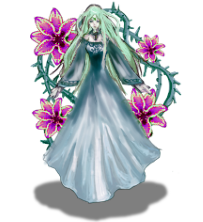
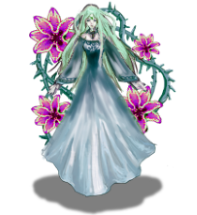
Resized the game frame in width & height
Shrinked alania image
Set loading bar to 100 when complete

diff --git a/src/bi/team/Game.java b/src/bi/team/Game.java
@@ -153,10 +153,10 @@ public class Game extends JFrame implements ActionListener {
     /* Build frame */
     this.setResizable(false);
     this.setDefaultCloseOperation(JFrame.EXIT_ON_CLOSE);
-    this.setBounds(100, 100, 1070, 700);
+    this.setBounds(100, 100, 1160, 680);
     this.setTitle("[ver. alpha] BeyondInfinity");
     getContentPane().setLayout(null);
-    this.setBounds(0, 0, 1070, 654);
+    this.setBounds(0, 0, 1140, 680);
     this.setBackground(new Color(236, 240, 241));
     this.setLocationRelativeTo(null);
 
@@ -180,7 +180,7 @@ public class Game extends JFrame implements ActionListener {
 
     /* Create a panel that dims the frame, this is used when toggling map */
     panel_frameOpacity = new JPanel();
-    panel_frameOpacity.setBounds(0, 0, 1064, 19);
+    panel_frameOpacity.setBounds(0, 0, 1134, 19);
     panel_frameOpacity.setBackground(new Color(0, 0, 0, 64));
     panel_frameOpacity.setOpaque(true);
     panel_frameOpacity.setVisible(false);
@@ -188,7 +188,7 @@ public class Game extends JFrame implements ActionListener {
 
     /* Create left panel for displaying hero info */
     panel_player = new JPanel();
-    panel_player.setBounds(20, 80, 260, 65);
+    panel_player.setBounds(20, 80, 285, 65);
     panel_player.setBackground(new Color(204, 255, 153));
     panel_player.setBorder(new LineBorder(Color.BLACK, 1));
     panel_player.setLayout(null);
@@ -196,13 +196,13 @@ public class Game extends JFrame implements ActionListener {
 
     /* Create top panel to display vitality (health) bars */
     panel_top = new JPanel();
-    panel_top.setBounds(10, 21, 1044, 48);
+    panel_top.setBounds(10, 21, 1114, 48);
     panel_top.setLayout(null);
     getContentPane().add(panel_top);
 
     /* Create the button that toggles map */
     btnShowMap = new JButton();
-    btnShowMap.setBounds(1006, 0, 38, 38);
+    btnShowMap.setBounds(1076, 0, 38, 38);
     btnShowMap.setFocusable(false);
     btnShowMap.setIcon(new ImageIcon(getClass().getResource("/images/map.png")));
     btnShowMap.setCursor(Cursor.getPredefinedCursor(Cursor.HAND_CURSOR));
@@ -226,7 +226,7 @@ public class Game extends JFrame implements ActionListener {
     bar_XPBar.setValue(20);
     bar_XPBar.setBorder(new LineBorder(new Color(0, 0, 0)));
     bar_XPBar.setStringPainted(true);
-    bar_XPBar.setBounds(322, 12, 400, 14);
+    bar_XPBar.setBounds(347, 12, 420, 14);
     panel_top.add(bar_XPBar);
 
     /* Create icon for current level */
@@ -235,7 +235,7 @@ public class Game extends JFrame implements ActionListener {
     lblLevel_current.setHorizontalTextPosition(JLabel.CENTER);
     lblLevel_current.setFont(new Font("Comic Sans MS", Font.PLAIN, 18));
     lblLevel_current.setIcon(new ImageIcon(getClass().getResource("/images/xpcircle.png")));
-    lblLevel_current.setBounds(274, 0, 38, 38);
+    lblLevel_current.setBounds(299, 0, 38, 38);
     panel_top.add(lblLevel_current);
 
     /* Create icon for next level */
@@ -244,19 +244,19 @@ public class Game extends JFrame implements ActionListener {
     lblLevel_next.setHorizontalTextPosition(JLabel.CENTER);
     lblLevel_next.setFont(new Font("Comic Sans MS", Font.PLAIN, 18));
     lblLevel_next.setIcon(new ImageIcon(getClass().getResource("/images/xpcircle.png")));
-    lblLevel_next.setBounds(732, 0, 38, 38);
+    lblLevel_next.setBounds(777, 0, 38, 38);
     panel_top.add(lblLevel_next);
 
     /* Create bottom panel to display buttons for upgrades */
     panel_stats = new JPanel();
-    panel_stats.setBounds(10, 414, 1044, 87);
+    panel_stats.setBounds(10, 436, 1114, 87);
     panel_stats.setLayout(new GridLayout(0, 5, 0, 0));
     getContentPane().add(panel_stats);
 
     /* Create right panel for displaying enemy info */
     panel_enemy = new JPanel();
     panel_enemy.setBackground(new Color(204, 255, 153));
-    panel_enemy.setBounds(784, 80, 260, 65);
+    panel_enemy.setBounds(829, 80, 285, 87);
     panel_enemy.setBorder(new LineBorder(Color.BLACK, 1));
     panel_enemy.setLayout(null);
     panel_enemy.setVisible(false);
@@ -265,26 +265,26 @@ public class Game extends JFrame implements ActionListener {
     /* Create actions panel for displaying attack buttons */
     panel_actions = new JPanel();
     panel_actions.setBorder(new EmptyBorder(10, 10, 10, 10));
-    panel_actions.setBounds(10, 542, 1044, 72);
+    panel_actions.setBounds(10, 568, 1114, 72);
     panel_actions.setBackground(new Color(135, 211, 124));
     panel_actions.setLayout(new GridLayout(0, 6, 10, 0));
     getContentPane().add(panel_actions);
 
     /* Create top actions panel */
     panel_actionsTop = new JPanel();
-    panel_actionsTop.setBounds(10, 508, 1044, 34);
+    panel_actionsTop.setBounds(10, 534, 1114, 34);
     panel_actionsTop.setLayout(null);
     getContentPane().add(panel_actionsTop);
 
     /* Create label to display upgrade points */
     lblEnhancementPoints = new JLabel("<html>Enhancement Points: <b>0</b></html>");
     lblEnhancementPoints.setFont(new Font("Comic Sans MS", Font.PLAIN, 12));
-    lblEnhancementPoints.setBounds(447, 9, 150, 16);
+    lblEnhancementPoints.setBounds(482, 9, 150, 16);
     panel_actionsTop.add(lblEnhancementPoints);
 
     /* Create the surrender button */
     btnSurrender = new JButton("");
-    btnSurrender.setBounds(1010, 0, 34, 34);
+    btnSurrender.setBounds(1080, 0, 34, 34);
     btnSurrender.setFocusable(false);
     btnSurrender.addActionListener(this);
     btnSurrender.setCursor(Cursor.getPredefinedCursor(Cursor.HAND_CURSOR));
@@ -295,7 +295,7 @@ public class Game extends JFrame implements ActionListener {
     /* Create the loading bar */
     bar_loading = new JProgressBar();
     bar_loading.setDoubleBuffered(true);
-    bar_loading.setBounds(0, 0, 1064, 10);
+    bar_loading.setBounds(0, 0, 1134, 10);
     bar_loading.setBorder(null);
     bar_loading.setValue(100);
     bar_loading.setForeground(new Color(52, 73, 94));
@@ -323,7 +323,7 @@ public class Game extends JFrame implements ActionListener {
     bar_playerHealth = new JProgressBar();
     bar_playerHealth.setFont(new Font("Comic Sans MS", Font.PLAIN, 10));
     bar_playerHealth.setStringPainted(true);
-    bar_playerHealth.setBounds(26, 11, 224, 16);
+    bar_playerHealth.setBounds(26, 11, 249, 16);
     bar_playerHealth.setString("");
     bar_playerHealth.setBorder(new LineBorder(new Color(0, 0, 0)));
     bar_playerHealth.setForeground(new Color(68, 108, 179));
@@ -333,7 +333,7 @@ public class Game extends JFrame implements ActionListener {
     bar_enemyHealth = new JProgressBar();
     bar_enemyHealth.setFont(new Font("Comic Sans MS", Font.PLAIN, 10));
     bar_enemyHealth.setStringPainted(true);
-    bar_enemyHealth.setBounds(26, 11, 224, 16);
+    bar_enemyHealth.setBounds(26, 11, 249, 16);
     bar_enemyHealth.setString("");
     bar_enemyHealth.setBorder(new LineBorder(new Color(0, 0, 0)));
     bar_enemyHealth.setForeground(new Color(68, 108, 179));
@@ -341,7 +341,7 @@ public class Game extends JFrame implements ActionListener {
 
     /* Build panel for displaying player buffs & debuffs */
     panel_playerBuffs = new JPanel();
-    panel_playerBuffs.setBounds(250, 165, 71, 227);
+    panel_playerBuffs.setBounds(262, 184, 71, 226);
     panel_playerBuffs.setOpaque(false);
     panel_playerBuffs.setLayout(new GridLayout(6, 2, 2, 2));
     getContentPane().add(panel_playerBuffs);
@@ -422,7 +422,7 @@ public class Game extends JFrame implements ActionListener {
 
     /* Build panel for displaying enemy buffs & debuffs */
     panel_enemyBuffs = new JPanel();
-    panel_enemyBuffs.setBounds(733, 165, 71, 227);
+    panel_enemyBuffs.setBounds(800, 184, 71, 226);
     panel_enemyBuffs.setOpaque(false);
     panel_enemyBuffs.setLayout(new GridLayout(6, 2, 2, 2));
     getContentPane().add(panel_enemyBuffs);
@@ -503,7 +503,7 @@ public class Game extends JFrame implements ActionListener {
 
     /* Create panel for displaying area wallpaper */
     panel_areaField = new JPanel();
-    panel_areaField.setBounds(10, 70, 1044, 333);
+    panel_areaField.setBounds(10, 70, 1114, 353);
     panel_areaField.setBorder(new LineBorder(new Color(0, 0, 0)));
     panel_areaField.setLayout(null);
     getContentPane().add(panel_areaField);
@@ -525,7 +525,7 @@ public class Game extends JFrame implements ActionListener {
     scroll.setVerticalScrollBarPolicy(JScrollPane.VERTICAL_SCROLLBAR_NEVER);
     scroll.setHorizontalScrollBarPolicy(JScrollPane.HORIZONTAL_SCROLLBAR_NEVER);
     scroll.setAutoscrolls(true);
-    scroll.setBounds(355, 0, 333, 322);
+    scroll.setBounds(390, 0, 333, 342);
     scroll.setOpaque(false);
     scroll.setBorder(null);
     scroll.getViewport().setOpaque(false);
@@ -534,33 +534,33 @@ public class Game extends JFrame implements ActionListener {
     /* Create the enemy's picture */
     lblEnemyImage = new JLabel("");
     lblEnemyImage.setHorizontalAlignment(SwingConstants.CENTER);
-    lblEnemyImage.setBounds(804, 100, 200, 222);
+    lblEnemyImage.setBounds(861, 120, 200, 222);
     panel_areaField.add(lblEnemyImage);
 
     /* Create label to display player's name */
     lblPlayerName = new JLabel(name);
     lblPlayerName.setHorizontalAlignment(SwingConstants.CENTER);
     lblPlayerName.setFont(new Font("Comic Sans MS", Font.BOLD, 14));
-    lblPlayerName.setBounds(10, 76, 260, 20);
+    lblPlayerName.setBounds(10, 77, 285, 20);
     panel_areaField.add(lblPlayerName);
 
     /* Create the player's picture */
     lblPlayerImage = new JLabel("");
     lblPlayerImage.setHorizontalAlignment(SwingConstants.CENTER);
     lblPlayerImage.setVerticalAlignment(SwingConstants.BOTTOM);
-    lblPlayerImage.setBounds(40, 100, 200, 222);
+    lblPlayerImage.setBounds(52, 120, 200, 222);
     panel_areaField.add(lblPlayerImage);
 
     /* Create the enemy's name */
     lblEnemyName = new JLabel("");
     lblEnemyName.setHorizontalAlignment(SwingConstants.CENTER);
     lblEnemyName.setFont(new Font("Comic Sans MS", Font.BOLD, 14));
-    lblEnemyName.setBounds(774, 76, 260, 20);
+    lblEnemyName.setBounds(819, 99, 285, 20);
     panel_areaField.add(lblEnemyName);
 
     /* Create label to display area image */
     areaWallpaper = new JLabel();
-    areaWallpaper.setBounds(0, 0, 1044, 333);
+    areaWallpaper.setBounds(0, 0, 1114, 353);
     areaWallpaper.setIcon(new ImageIcon(getClass().getResource("/images/areas/meadowlands.jpg")));
     panel_areaField.add(areaWallpaper);
 

diff --git a/src/bi/team/graphics/XPAnimation.java b/src/bi/team/graphics/XPAnimation.java
@@ -28,7 +28,7 @@ public class XPAnimation implements ActionListener {
     lblXPEarned.setForeground(new Color(102, 51, 153, 255));
     lblXPEarned.setHorizontalAlignment(SwingConstants.CENTER);
     lblXPEarned.setFont(new Font("Comic Sans MS", Font.PLAIN, 12));
-    lblXPEarned.setBounds(498, 28, 48, 16);
+    lblXPEarned.setBounds(533, 28, 48, 16);
     game.getPanel_top().add(lblXPEarned);
   }
 

diff --git a/src/bi/team/graphics/EnemyLoad.java b/src/bi/team/graphics/EnemyLoad.java
@@ -51,6 +51,7 @@ public class EnemyLoad implements ActionListener {
 
     if (i < 0) { // Conditional check for who's turn
       timer.stop(); // Stop the loop
+      game.setProgBar_loading(100);
       if (!Game.getTurn()) { // If it's enemy's turn
         try { // Enemy attacks the player
           game.getEnemySelected().attackPlayer();
